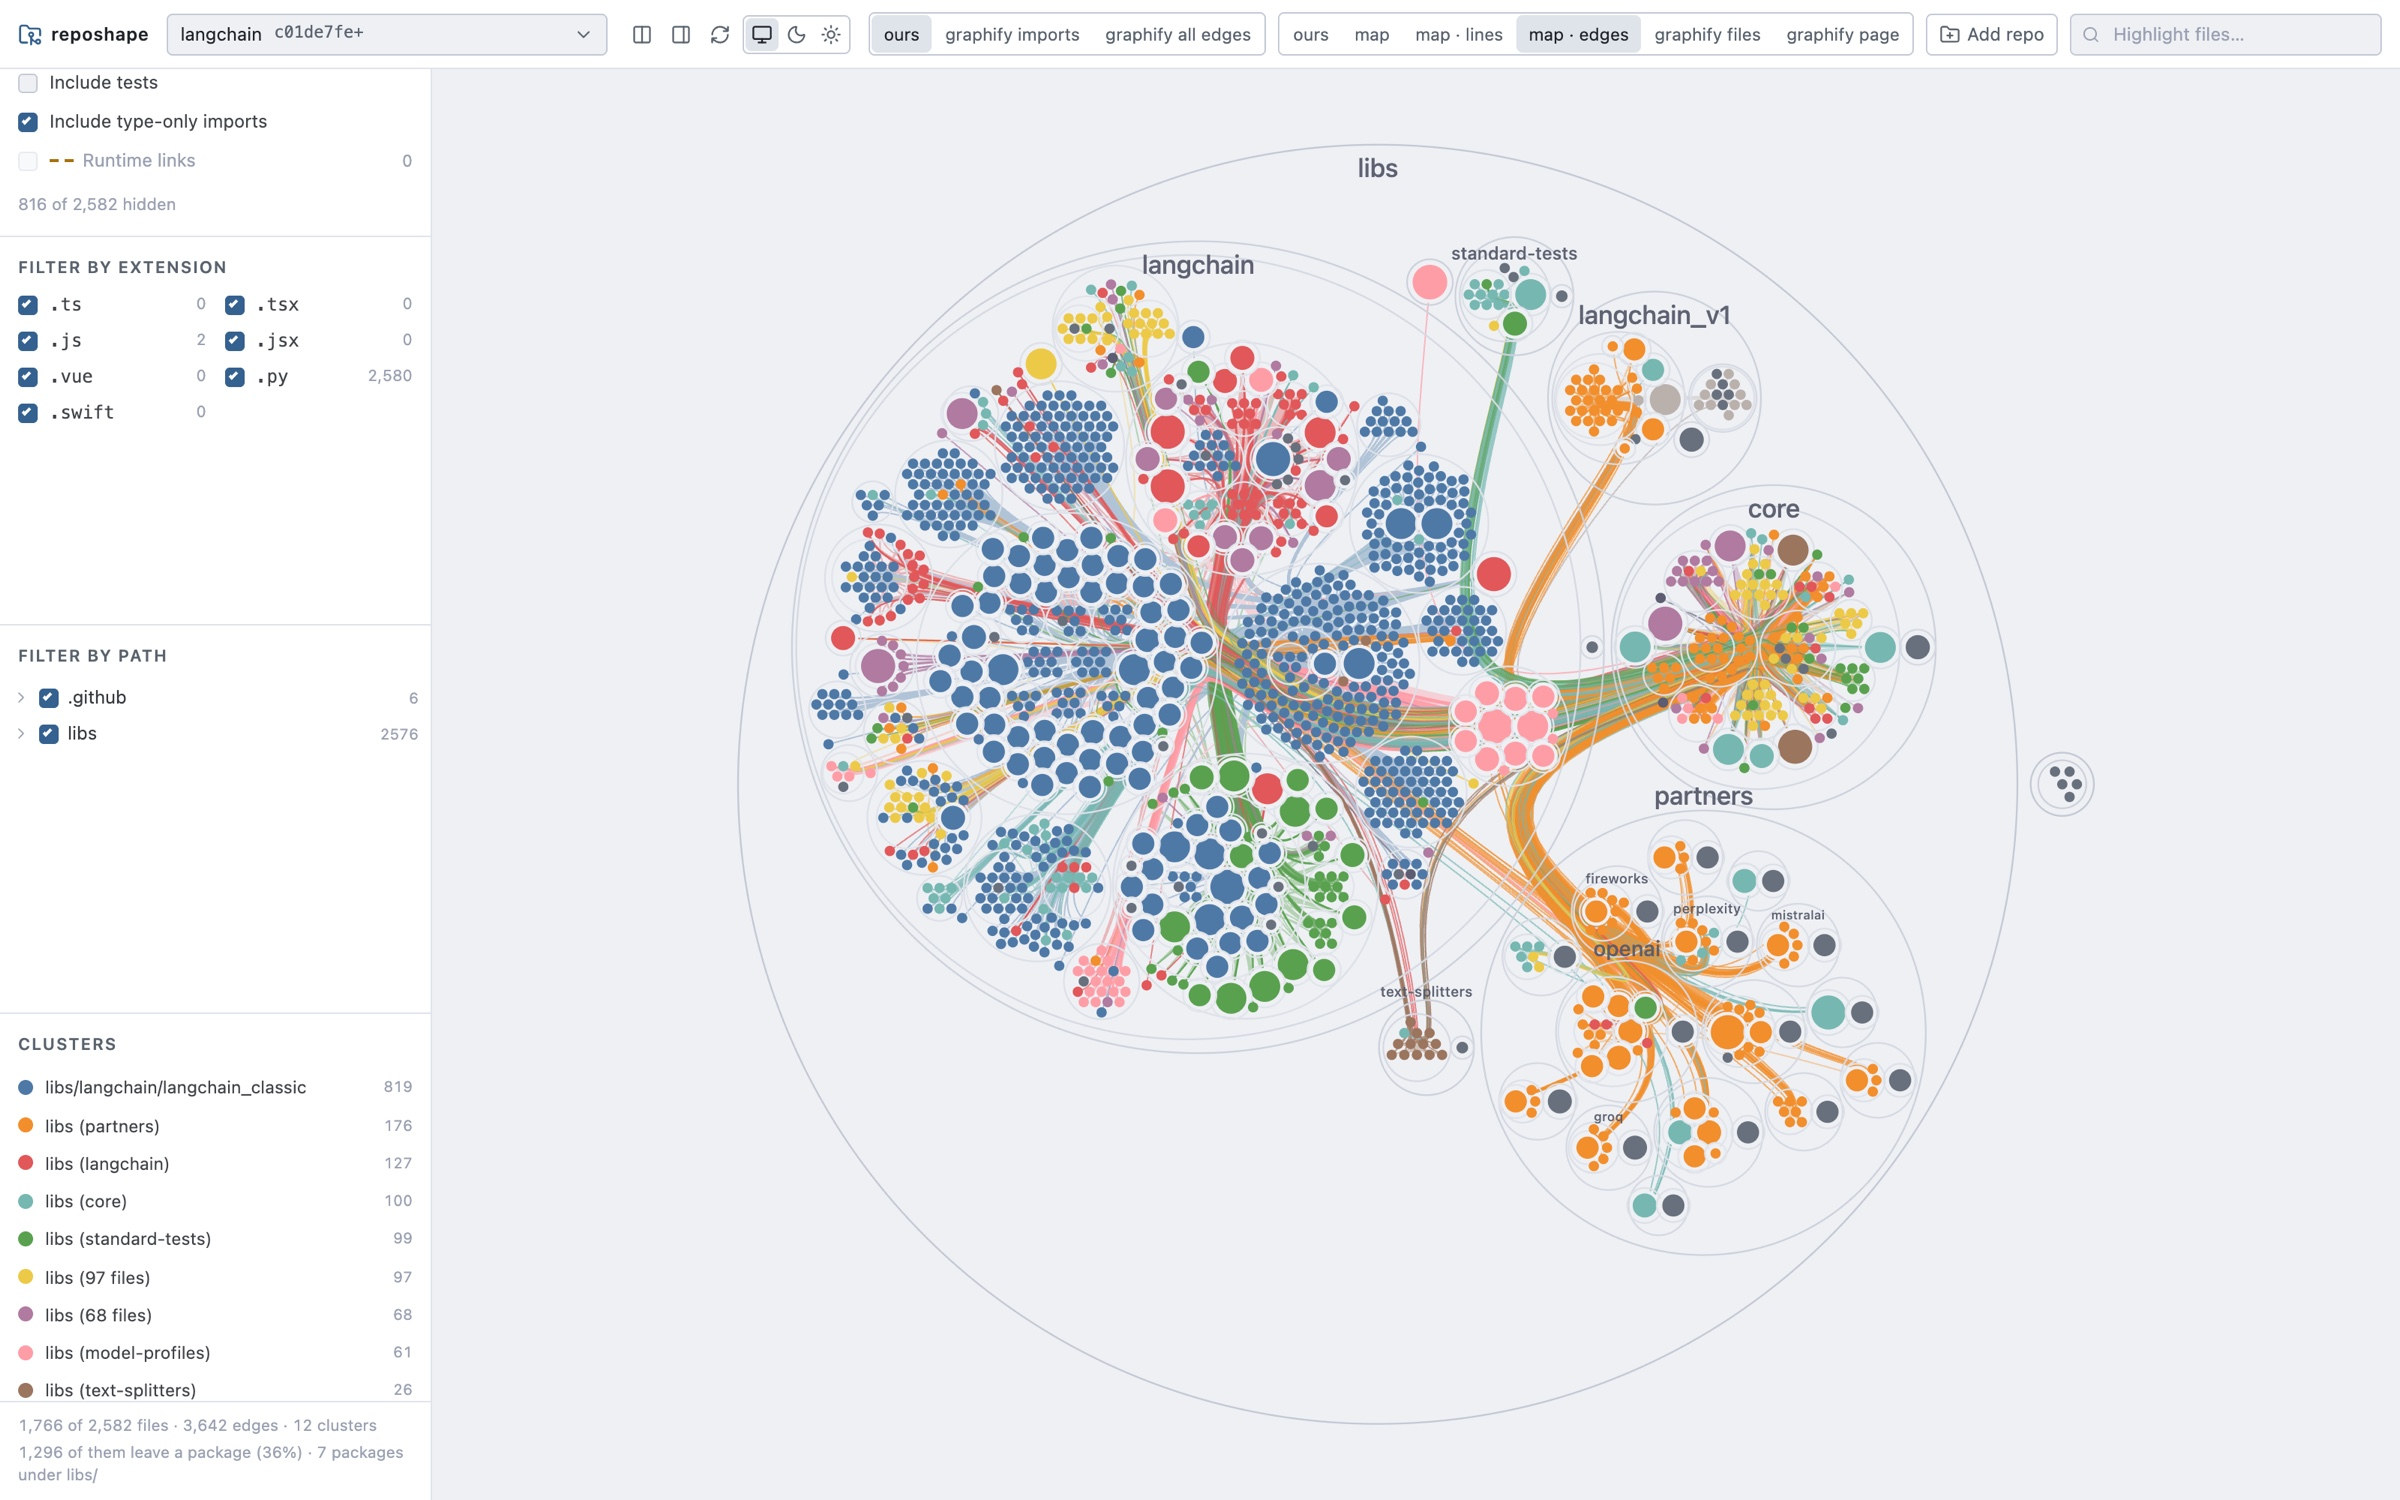
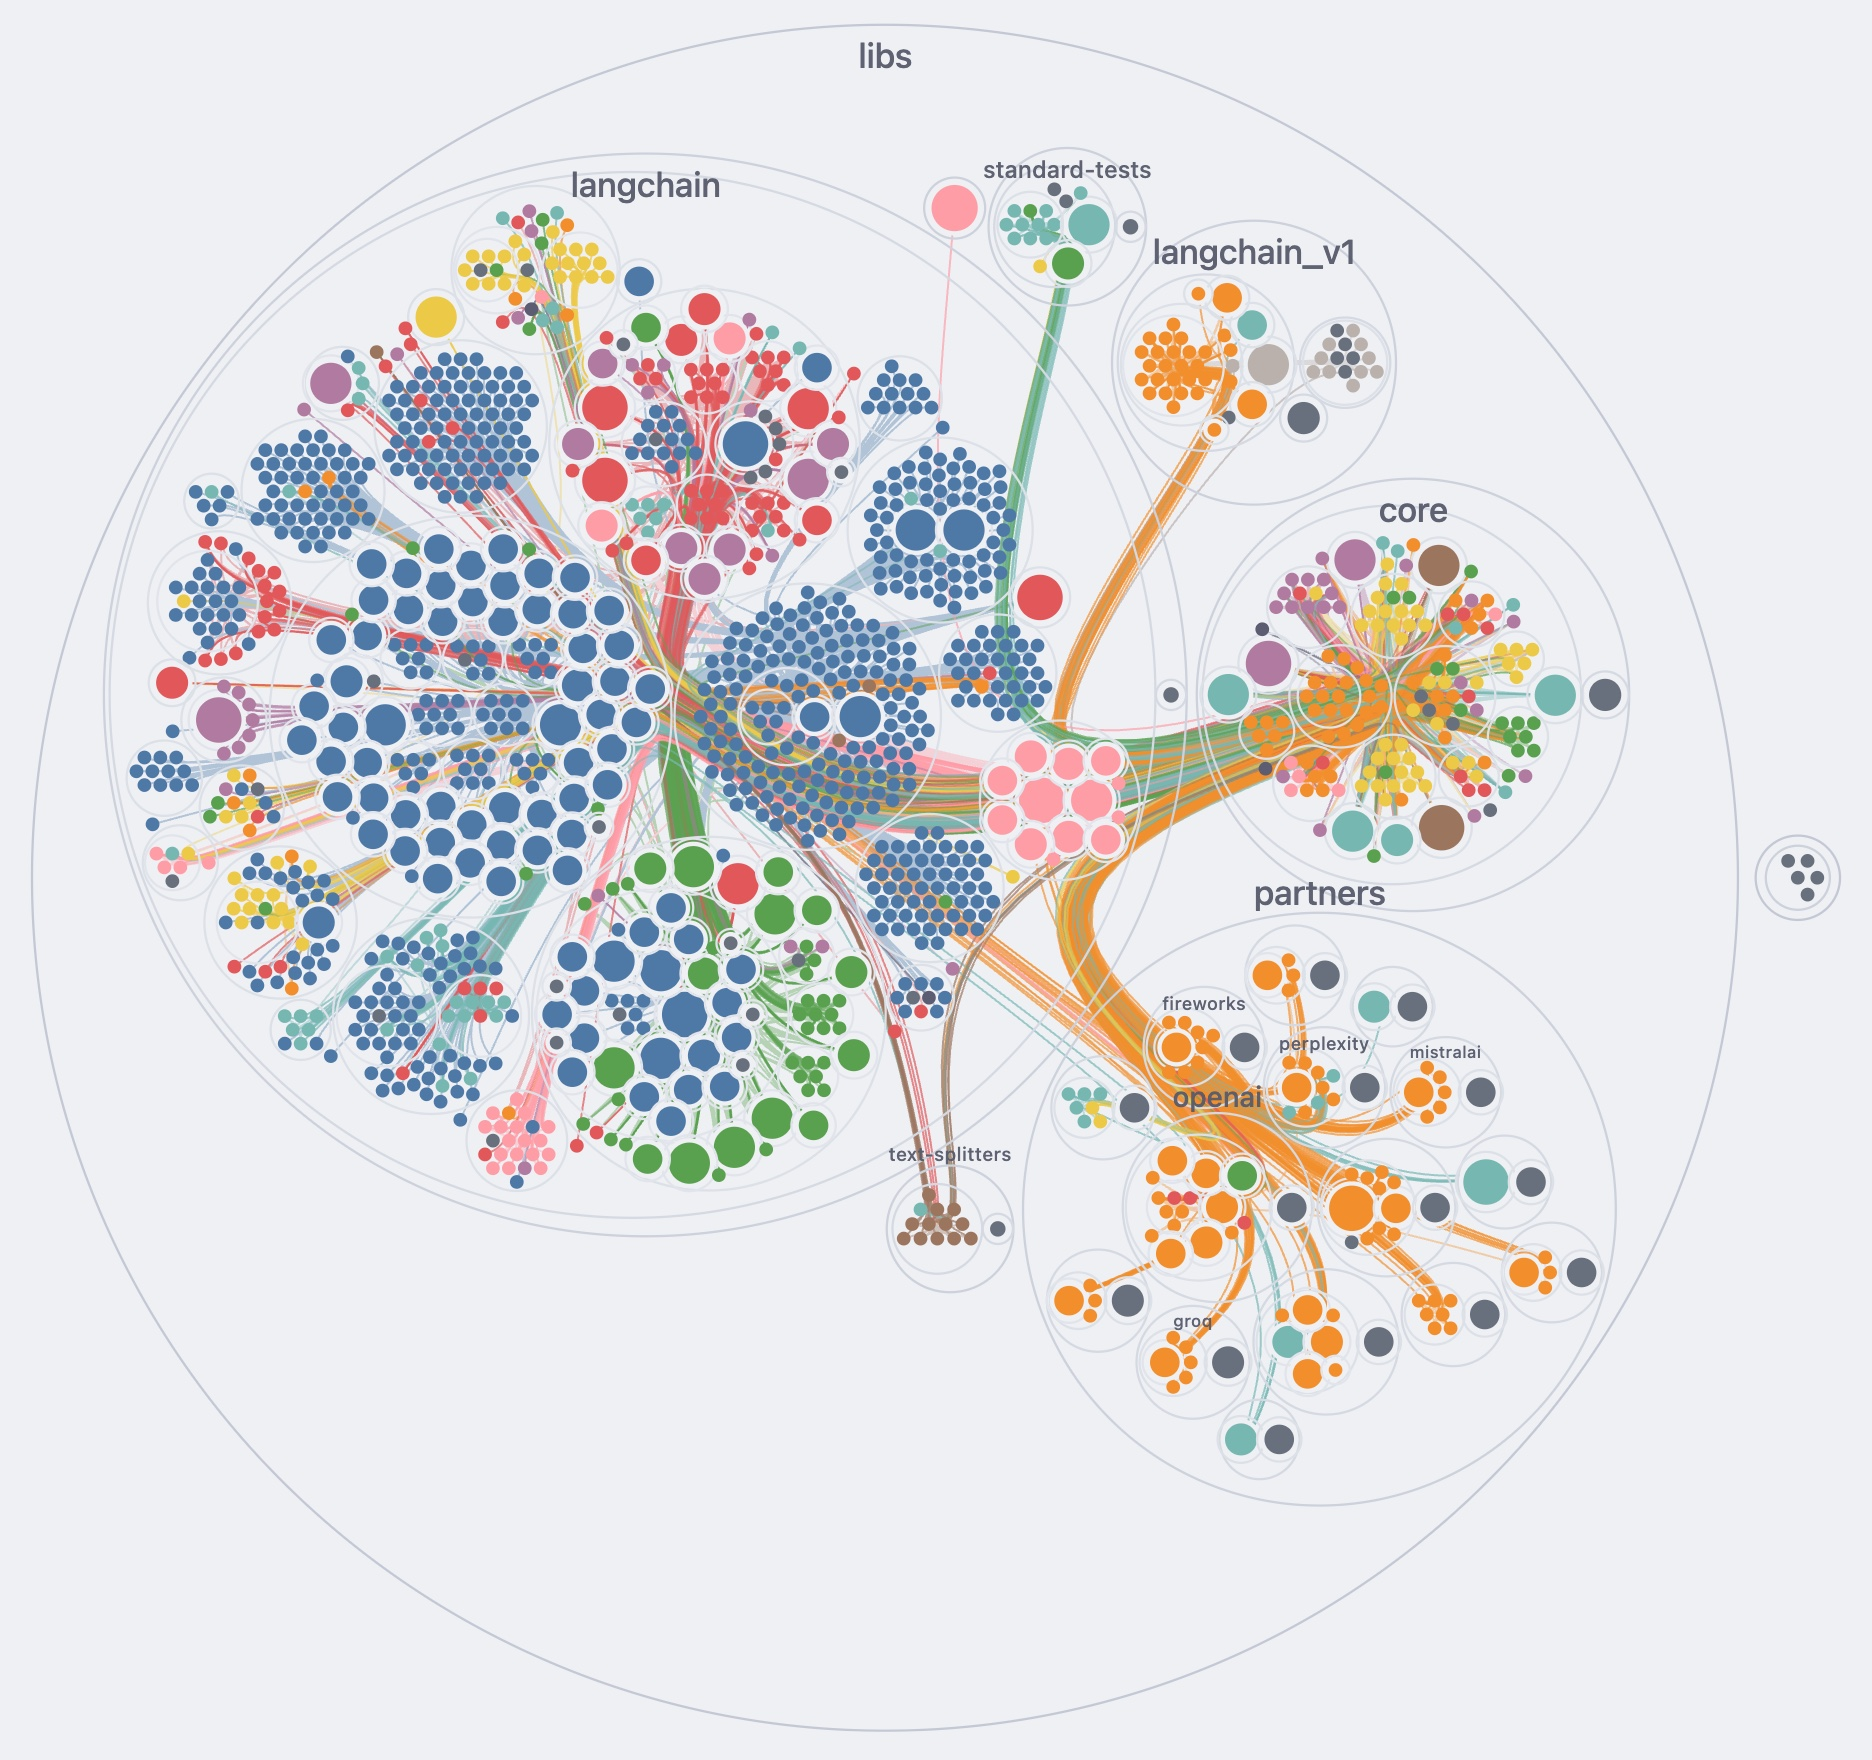
docs: crop the README screenshots to the map itself
The app's sidebar and toolbar took a fifth of each image's width, which left
the map small at README width. The captions now name the view, since the tab
labels are no longer in the picture.

Claude-Session: https://claude.ai/code/session_01CdaKaMur8RPgd2PamAsUp6

diff --git a/backend/README.md b/backend/README.md
@@ -6,13 +6,13 @@ runs on your machine, and opens the map in your browser.
 
 ![LangChain's monorepo as a map: folders as circles, files as dots sized by line count](https://raw.githubusercontent.com/nabinpkl/reposhape/main/docs/images/langchain-map-lines.jpg)
 
-*LangChain, 1,766 source files with tests hidden. Each circle is a folder and
+*The **map · lines** view of LangChain, 1,766 source files with tests hidden. Each circle is a folder and
 each dot is a file, sized by its line count. Colours are clusters worked out
 from the imports.*
 
 ![The same map with the imports that cross between packages drawn on top](https://raw.githubusercontent.com/nabinpkl/reposhape/main/docs/images/langchain-map-edges.jpg)
 
-*The same repo with the imports that cross from one package to another drawn
+*The **map · edges** view: the same repo with the imports that cross from one package to another drawn
 on top.*
 
 ## Install

diff --git a/README.md b/README.md
@@ -6,13 +6,13 @@ runs on your machine, and opens the map in your browser.
 
 ![LangChain's monorepo as a map: folders as circles, files as dots sized by line count](docs/images/langchain-map-lines.jpg)
 
-*LangChain, 1,766 source files with tests hidden. Each circle is a folder and
+*The **map · lines** view of LangChain, 1,766 source files with tests hidden. Each circle is a folder and
 each dot is a file, sized by its line count. Colours are clusters worked out
 from the imports.*
 
 ![The same map with the imports that cross between packages drawn on top](docs/images/langchain-map-edges.jpg)
 
-*The same repo with the imports that cross from one package to another drawn
+*The **map · edges** view: the same repo with the imports that cross from one package to another drawn
 on top. 1,296 of its 3,642 imports leave their package.*
 
 ## Install
